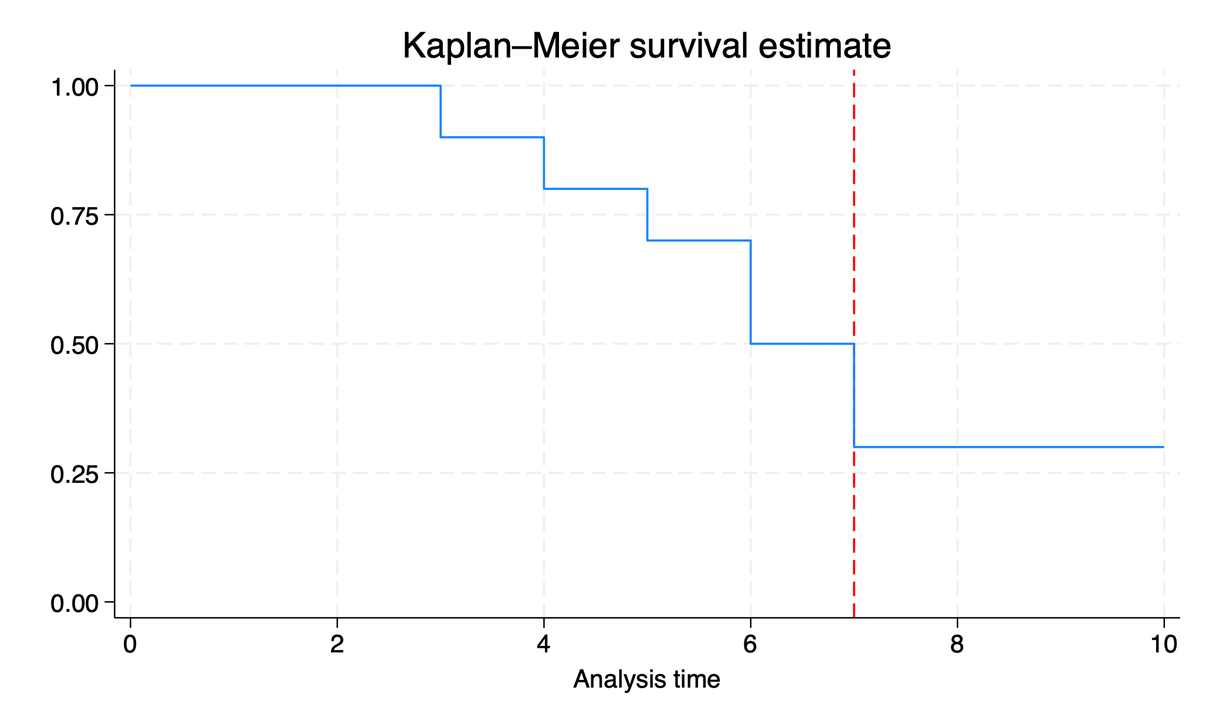
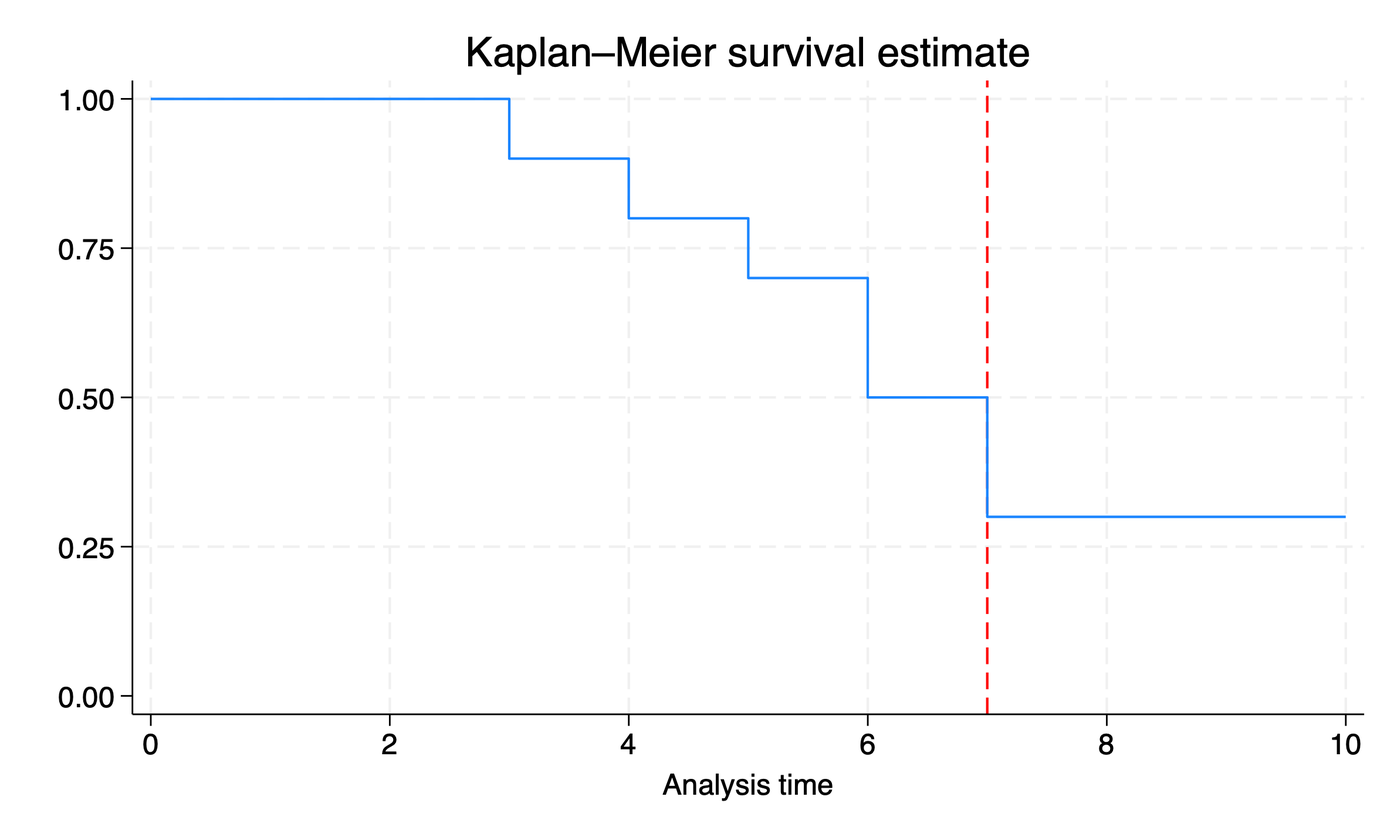
added grey shaded study period; increased width of censoring line

diff --git a/categorical/survival-analysis-and-event-history/times-events-and-censoring.html b/categorical/survival-analysis-and-event-history/times-events-and-censoring.html
@@ -7,7 +7,7 @@
 <meta name="viewport" content="width=device-width, initial-scale=1.0, user-scalable=yes">
 
 <meta name="author" content="Andy Grogan-Kaylor">
-<meta name="dcterms.date" content="2026-05-13">
+<meta name="dcterms.date" content="2026-09-16">
 
 <title>Times, Events, and Censoring</title>
 <style>
@@ -134,7 +134,7 @@ pre > code.sourceCode > span > a:first-child::before { text-decoration: underlin
     <div>
     <div class="quarto-title-meta-heading">Published</div>
     <div class="quarto-title-meta-contents">
-      <p class="date">May 13, 2026</p>
+      <p class="date">September 16, 2026</p>
     </div>
   </div>
   
@@ -238,7 +238,8 @@ pre > code.sourceCode > span > a:first-child::before { text-decoration: underlin
 </div>
 <p>Individuals in the animation below who have not yet experienced an event are indicated by a <span style="font-size: 150%">●</span>.</p>
 <p>When an event occurs for an individual, the symbol changes to a <span style="font-size: 150%">✕</span>.</p>
-<p>In this simulation, we imagine that the study period ends after time 7, so observations for which the event occurs after time 7 are considered to be <em>censored</em>: i.e.&nbsp;a failure is not observed.</p>
+<p>The study period is shaded <span style="background-color:lightgrey;">light grey</span>.</p>
+<p>In this simulation, we imagine that the <span style="background-color:lightgrey;">study period</span> ends after time 7, so observations for which the event occurs after time 7 are considered to be <em>censored</em>: i.e.&nbsp;a failure is not observed.</p>
 <p>Censored observations (<em>failure not observed</em>) are <strong>maize</strong> <span style="color: #FFCB05">⬤</span>, and non-censored observations (<em>failure observed</em>) are <strong>blue</strong> <span style="color: #00274C">⬤</span>.<a href="#fn1" class="footnote-ref" id="fnref1" role="doc-noteref"><sup>1</sup></a></p>
 <div class="cell">
 <details class="code-fold">
@@ -262,21 +263,31 @@ pre > code.sourceCode > span > a:first-child::before { text-decoration: underlin
 <span id="cb5-17"><a href="#cb5-17" aria-hidden="true" tabindex="-1"></a>                          <span class="st">'x'</span>), <span class="co"># event</span></span>
 <span id="cb5-18"><a href="#cb5-18" aria-hidden="true" tabindex="-1"></a>              <span class="at">marker =</span> <span class="fu">list</span>(<span class="at">size =</span> <span class="dv">15</span>)) <span class="sc">%&gt;%</span> <span class="co"># marker size</span></span>
 <span id="cb5-19"><a href="#cb5-19" aria-hidden="true" tabindex="-1"></a>  <span class="fu">layout</span>(<span class="at">title =</span> <span class="st">'Hypothetical Timing of Events </span><span class="sc">\n</span><span class="st">Censored at Time 7'</span>,</span>
-<span id="cb5-20"><a href="#cb5-20" aria-hidden="true" tabindex="-1"></a>         <span class="at">shapes =</span> <span class="fu">list</span>(<span class="at">type=</span><span class="st">'line'</span>, <span class="co"># censoring line</span></span>
-<span id="cb5-21"><a href="#cb5-21" aria-hidden="true" tabindex="-1"></a>                       <span class="at">x0 =</span> <span class="dv">7</span>, </span>
-<span id="cb5-22"><a href="#cb5-22" aria-hidden="true" tabindex="-1"></a>                       <span class="at">x1 =</span> <span class="dv">7</span>, </span>
-<span id="cb5-23"><a href="#cb5-23" aria-hidden="true" tabindex="-1"></a>                       <span class="at">y0 =</span> <span class="dv">0</span>, </span>
-<span id="cb5-24"><a href="#cb5-24" aria-hidden="true" tabindex="-1"></a>                       <span class="at">y1 =</span> <span class="dv">10</span>, </span>
-<span id="cb5-25"><a href="#cb5-25" aria-hidden="true" tabindex="-1"></a>                       <span class="at">line=</span><span class="fu">list</span>(<span class="at">dash=</span><span class="st">'dot'</span>, </span>
-<span id="cb5-26"><a href="#cb5-26" aria-hidden="true" tabindex="-1"></a>                                 <span class="at">width=</span><span class="dv">1</span>, </span>
-<span id="cb5-27"><a href="#cb5-27" aria-hidden="true" tabindex="-1"></a>                                 <span class="at">color =</span> <span class="st">"red"</span>))) <span class="sc">%&gt;%</span></span>
-<span id="cb5-28"><a href="#cb5-28" aria-hidden="true" tabindex="-1"></a>  <span class="fu">animation_opts</span>(<span class="dv">3000</span>) </span>
-<span id="cb5-29"><a href="#cb5-29" aria-hidden="true" tabindex="-1"></a></span>
-<span id="cb5-30"><a href="#cb5-30" aria-hidden="true" tabindex="-1"></a>p2 <span class="co"># replay</span></span></code></pre></div><button title="Copy to Clipboard" class="code-copy-button"><i class="bi"></i></button></div>
+<span id="cb5-20"><a href="#cb5-20" aria-hidden="true" tabindex="-1"></a>         <span class="at">shapes =</span> <span class="fu">list</span>(</span>
+<span id="cb5-21"><a href="#cb5-21" aria-hidden="true" tabindex="-1"></a>           <span class="fu">list</span>(</span>
+<span id="cb5-22"><a href="#cb5-22" aria-hidden="true" tabindex="-1"></a>             <span class="at">type=</span><span class="st">'line'</span>, <span class="co"># censoring line</span></span>
+<span id="cb5-23"><a href="#cb5-23" aria-hidden="true" tabindex="-1"></a>             <span class="at">x0 =</span> <span class="dv">7</span>, </span>
+<span id="cb5-24"><a href="#cb5-24" aria-hidden="true" tabindex="-1"></a>             <span class="at">x1 =</span> <span class="dv">7</span>, </span>
+<span id="cb5-25"><a href="#cb5-25" aria-hidden="true" tabindex="-1"></a>             <span class="at">y0 =</span> <span class="dv">0</span>, </span>
+<span id="cb5-26"><a href="#cb5-26" aria-hidden="true" tabindex="-1"></a>             <span class="at">y1 =</span> <span class="dv">10</span>, </span>
+<span id="cb5-27"><a href="#cb5-27" aria-hidden="true" tabindex="-1"></a>             <span class="at">line =</span> <span class="fu">list</span>(<span class="at">dash =</span> <span class="st">'dot'</span>, </span>
+<span id="cb5-28"><a href="#cb5-28" aria-hidden="true" tabindex="-1"></a>                         <span class="at">width =</span> <span class="dv">3</span>, </span>
+<span id="cb5-29"><a href="#cb5-29" aria-hidden="true" tabindex="-1"></a>                         <span class="at">color =</span> <span class="st">"red"</span>)),</span>
+<span id="cb5-30"><a href="#cb5-30" aria-hidden="true" tabindex="-1"></a>           <span class="fu">list</span>(</span>
+<span id="cb5-31"><a href="#cb5-31" aria-hidden="true" tabindex="-1"></a>             <span class="at">type =</span> <span class="st">"rect"</span>,</span>
+<span id="cb5-32"><a href="#cb5-32" aria-hidden="true" tabindex="-1"></a>             <span class="at">x0 =</span> <span class="dv">1</span>,</span>
+<span id="cb5-33"><a href="#cb5-33" aria-hidden="true" tabindex="-1"></a>             <span class="at">x1 =</span> <span class="dv">7</span>,</span>
+<span id="cb5-34"><a href="#cb5-34" aria-hidden="true" tabindex="-1"></a>             <span class="at">y0 =</span> <span class="dv">1</span>,</span>
+<span id="cb5-35"><a href="#cb5-35" aria-hidden="true" tabindex="-1"></a>             <span class="at">y1 =</span> <span class="dv">10</span>,</span>
+<span id="cb5-36"><a href="#cb5-36" aria-hidden="true" tabindex="-1"></a>             <span class="at">fillcolor =</span> <span class="st">"lightgrey"</span>,</span>
+<span id="cb5-37"><a href="#cb5-37" aria-hidden="true" tabindex="-1"></a>             <span class="at">opacity =</span> .<span class="dv">25</span>))) <span class="sc">%&gt;%</span></span>
+<span id="cb5-38"><a href="#cb5-38" aria-hidden="true" tabindex="-1"></a>  <span class="fu">animation_opts</span>(<span class="dv">3000</span>) </span>
+<span id="cb5-39"><a href="#cb5-39" aria-hidden="true" tabindex="-1"></a></span>
+<span id="cb5-40"><a href="#cb5-40" aria-hidden="true" tabindex="-1"></a>p2 <span class="co"># replay</span></span></code></pre></div><button title="Copy to Clipboard" class="code-copy-button"><i class="bi"></i></button></div>
 </details>
 <div class="cell-output-display">
 <div class="plotly html-widget html-fill-item" id="htmlwidget-7f406c1c9d515fb2f749" style="width:100%;height:464px;"></div>
-<script type="application/json" data-for="htmlwidget-7f406c1c9d515fb2f749">{"x":{"visdat":{"ad3d5bb9a70d":["function () ","plotlyVisDat"]},"cur_data":"ad3d5bb9a70d","attrs":{"ad3d5bb9a70d":{"x":{},"y":{},"text":{},"mode":"marker","marker":{"size":15},"color":{},"symbol":{},"frame":{},"colors":["#00274C","#FFCB05"],"alpha_stroke":1,"sizes":[10,100],"spans":[1,20],"symbols":["circle","x"],"type":"scatter"}},"layout":{"margin":{"b":40,"l":60,"t":25,"r":10},"title":"Hypothetical Timing of Events <br />Censored at Time 7","shapes":[{"type":"line","x0":7,"x1":7,"y0":0,"y1":10,"line":{"dash":"dot","width":1,"color":"red"}}],"xaxis":{"domain":[0,1],"automargin":true,"title":"t","range":[0.55000000000000004,10.449999999999999]},"yaxis":{"domain":[0,1],"automargin":true,"title":"id","range":[0.55000000000000004,10.449999999999999]},"hovermode":"closest","showlegend":true,"sliders":[{"currentvalue":{"prefix":"t: ","xanchor":"right","font":{"size":16,"color":"rgba(204,204,204,1)"}},"steps":[{"method":"animate","args":[["1"],{"transition":{"duration":3000,"easing":"linear"},"frame":{"duration":3000,"redraw":true},"mode":"immediate"}],"label":"1","value":"1"},{"method":"animate","args":[["2"],{"transition":{"duration":3000,"easing":"linear"},"frame":{"duration":3000,"redraw":true},"mode":"immediate"}],"label":"2","value":"2"},{"method":"animate","args":[["3"],{"transition":{"duration":3000,"easing":"linear"},"frame":{"duration":3000,"redraw":true},"mode":"immediate"}],"label":"3","value":"3"},{"method":"animate","args":[["4"],{"transition":{"duration":3000,"easing":"linear"},"frame":{"duration":3000,"redraw":true},"mode":"immediate"}],"label":"4","value":"4"},{"method":"animate","args":[["5"],{"transition":{"duration":3000,"easing":"linear"},"frame":{"duration":3000,"redraw":true},"mode":"immediate"}],"label":"5","value":"5"},{"method":"animate","args":[["6"],{"transition":{"duration":3000,"easing":"linear"},"frame":{"duration":3000,"redraw":true},"mode":"immediate"}],"label":"6","value":"6"},{"method":"animate","args":[["7"],{"transition":{"duration":3000,"easing":"linear"},"frame":{"duration":3000,"redraw":true},"mode":"immediate"}],"label":"7","value":"7"},{"method":"animate","args":[["8"],{"transition":{"duration":3000,"easing":"linear"},"frame":{"duration":3000,"redraw":true},"mode":"immediate"}],"label":"8","value":"8"},{"method":"animate","args":[["9"],{"transition":{"duration":3000,"easing":"linear"},"frame":{"duration":3000,"redraw":true},"mode":"immediate"}],"label":"9","value":"9"},{"method":"animate","args":[["10"],{"transition":{"duration":3000,"easing":"linear"},"frame":{"duration":3000,"redraw":true},"mode":"immediate"}],"label":"10","value":"10"}],"visible":true,"pad":{"t":40}}],"updatemenus":[{"type":"buttons","direction":"right","showactive":false,"y":0,"x":0,"yanchor":"top","xanchor":"right","pad":{"t":60,"r":5},"buttons":[{"label":"Play","method":"animate","args":[null,{"fromcurrent":true,"mode":"immediate","transition":{"duration":3000,"easing":"linear"},"frame":{"duration":3000,"redraw":true}}]}]}]},"source":"A","config":{"modeBarButtonsToAdd":["hoverclosest","hovercompare"],"showSendToCloud":false},"data":[{"x":[1,1,1],"y":[1,5,8],"text":["Event: No Event <br>Censored: Censored","Event: No Event <br>Censored: Censored","Event: No Event <br>Censored: Censored"],"mode":"marker+markers","marker":{"color":"rgba(255,203,5,1)","symbol":"circle","size":15,"line":{"color":"rgba(255,203,5,1)"}},"frame":"1","type":"scatter","name":"Censored","textfont":{"color":"rgba(255,203,5,1)"},"error_y":{"color":"rgba(255,203,5,1)"},"error_x":{"color":"rgba(255,203,5,1)"},"line":{"color":"rgba(255,203,5,1)"},"xaxis":"x","yaxis":"y","visible":true},{"x":[1,1,1,1,1,1,1],"y":[2,3,4,6,7,9,10],"text":["Event: No Event <br>Censored: Not Censored","Event: No Event <br>Censored: Not Censored","Event: No Event <br>Censored: Not Censored","Event: No Event <br>Censored: Not Censored","Event: No Event <br>Censored: Not Censored","Event: No Event <br>Censored: Not Censored","Event: No Event <br>Censored: Not Censored"],"mode":"marker+markers","marker":{"color":"rgba(0,39,76,1)","symbol":"circle","size":15,"line":{"color":"rgba(0,39,76,1)"}},"frame":"1","type":"scatter","name":"Not Censored","textfont":{"color":"rgba(0,39,76,1)"},"error_y":{"color":"rgba(0,39,76,1)"},"error_x":{"color":"rgba(0,39,76,1)"},"line":{"color":"rgba(0,39,76,1)"},"xaxis":"x","yaxis":"y","visible":true}],"highlight":{"on":"plotly_click","persistent":false,"dynamic":false,"selectize":false,"opacityDim":0.20000000000000001,"selected":{"opacity":1},"debounce":0},"frames":[{"name":"1","data":[{"x":[1,1,1],"y":[1,5,8],"text":["Event: No Event <br>Censored: Censored","Event: No Event <br>Censored: Censored","Event: No Event <br>Censored: Censored"],"mode":"marker+markers","marker":{"color":"rgba(255,203,5,1)","symbol":"circle","size":15,"line":{"color":"rgba(255,203,5,1)"}},"frame":"1","type":"scatter","name":"Censored","textfont":{"color":"rgba(255,203,5,1)"},"error_y":{"color":"rgba(255,203,5,1)"},"error_x":{"color":"rgba(255,203,5,1)"},"line":{"color":"rgba(255,203,5,1)"},"xaxis":"x","yaxis":"y","visible":true},{"x":[1,1,1,1,1,1,1],"y":[2,3,4,6,7,9,10],"text":["Event: No Event <br>Censored: Not Censored","Event: No Event <br>Censored: Not Censored","Event: No Event <br>Censored: Not Censored","Event: No Event <br>Censored: Not Censored","Event: No Event <br>Censored: Not Censored","Event: No Event <br>Censored: Not Censored","Event: No Event <br>Censored: Not Censored"],"mode":"marker+markers","marker":{"color":"rgba(0,39,76,1)","symbol":"circle","size":15,"line":{"color":"rgba(0,39,76,1)"}},"frame":"1","type":"scatter","name":"Not Censored","textfont":{"color":"rgba(0,39,76,1)"},"error_y":{"color":"rgba(0,39,76,1)"},"error_x":{"color":"rgba(0,39,76,1)"},"line":{"color":"rgba(0,39,76,1)"},"xaxis":"x","yaxis":"y","visible":true}],"traces":[0,1]},{"name":"2","data":[{"x":[2,2,2],"y":[1,5,8],"text":["Event: No Event <br>Censored: Censored","Event: No Event <br>Censored: Censored","Event: No Event <br>Censored: Censored"],"mode":"marker+markers","marker":{"color":"rgba(255,203,5,1)","symbol":"circle","size":15,"line":{"color":"rgba(255,203,5,1)"}},"frame":"2","type":"scatter","name":"Censored","textfont":{"color":"rgba(255,203,5,1)"},"error_y":{"color":"rgba(255,203,5,1)"},"error_x":{"color":"rgba(255,203,5,1)"},"line":{"color":"rgba(255,203,5,1)"},"xaxis":"x","yaxis":"y","visible":true},{"x":[2,2,2,2,2,2,2],"y":[2,3,4,6,7,9,10],"text":["Event: No Event <br>Censored: Not Censored","Event: No Event <br>Censored: Not Censored","Event: No Event <br>Censored: Not Censored","Event: No Event <br>Censored: Not Censored","Event: No Event <br>Censored: Not Censored","Event: No Event <br>Censored: Not Censored","Event: No Event <br>Censored: Not Censored"],"mode":"marker+markers","marker":{"color":"rgba(0,39,76,1)","symbol":"circle","size":15,"line":{"color":"rgba(0,39,76,1)"}},"frame":"2","type":"scatter","name":"Not Censored","textfont":{"color":"rgba(0,39,76,1)"},"error_y":{"color":"rgba(0,39,76,1)"},"error_x":{"color":"rgba(0,39,76,1)"},"line":{"color":"rgba(0,39,76,1)"},"xaxis":"x","yaxis":"y","visible":true}],"traces":[0,1]},{"name":"3","data":[{"x":[3,3,3],"y":[1,5,8],"text":["Event: No Event <br>Censored: Censored","Event: No Event <br>Censored: Censored","Event: No Event <br>Censored: Censored"],"mode":"marker+markers","marker":{"color":"rgba(255,203,5,1)","symbol":"circle","size":15,"line":{"color":"rgba(255,203,5,1)"}},"frame":"3","type":"scatter","name":"Censored","textfont":{"color":"rgba(255,203,5,1)"},"error_y":{"color":"rgba(255,203,5,1)"},"error_x":{"color":"rgba(255,203,5,1)"},"line":{"color":"rgba(255,203,5,1)"},"xaxis":"x","yaxis":"y","visible":true},{"x":[3,3,3,3,3,3,3],"y":[2,3,4,6,7,9,10],"text":["Event: No Event <br>Censored: Not Censored","Event: Event <br>Censored: Not Censored","Event: No Event <br>Censored: Not Censored","Event: No Event <br>Censored: Not Censored","Event: No Event <br>Censored: Not Censored","Event: No Event <br>Censored: Not Censored","Event: No Event <br>Censored: Not Censored"],"mode":"marker+markers","marker":{"color":"rgba(0,39,76,1)","symbol":["circle","x","circle","circle","circle","circle","circle"],"size":15,"line":{"color":"rgba(0,39,76,1)"}},"frame":"3","type":"scatter","name":"Not Censored","textfont":{"color":"rgba(0,39,76,1)"},"error_y":{"color":"rgba(0,39,76,1)"},"error_x":{"color":"rgba(0,39,76,1)"},"line":{"color":"rgba(0,39,76,1)"},"xaxis":"x","yaxis":"y","visible":true}],"traces":[0,1]},{"name":"4","data":[{"x":[4,4,4],"y":[1,5,8],"text":["Event: No Event <br>Censored: Censored","Event: No Event <br>Censored: Censored","Event: No Event <br>Censored: Censored"],"mode":"marker+markers","marker":{"color":"rgba(255,203,5,1)","symbol":"circle","size":15,"line":{"color":"rgba(255,203,5,1)"}},"frame":"4","type":"scatter","name":"Censored","textfont":{"color":"rgba(255,203,5,1)"},"error_y":{"color":"rgba(255,203,5,1)"},"error_x":{"color":"rgba(255,203,5,1)"},"line":{"color":"rgba(255,203,5,1)"},"xaxis":"x","yaxis":"y","visible":true},{"x":[4,4,4,4,4,4,4],"y":[2,3,4,6,7,9,10],"text":["Event: No Event <br>Censored: Not Censored","Event: Event <br>Censored: Not Censored","Event: No Event <br>Censored: Not Censored","Event: No Event <br>Censored: Not Censored","Event: No Event <br>Censored: Not Censored","Event: Event <br>Censored: Not Censored","Event: No Event <br>Censored: Not Censored"],"mode":"marker+markers","marker":{"color":"rgba(0,39,76,1)","symbol":["circle","x","circle","circle","circle","x","circle"],"size":15,"line":{"color":"rgba(0,39,76,1)"}},"frame":"4","type":"scatter","name":"Not Censored","textfont":{"color":"rgba(0,39,76,1)"},"error_y":{"color":"rgba(0,39,76,1)"},"error_x":{"color":"rgba(0,39,76,1)"},"line":{"color":"rgba(0,39,76,1)"},"xaxis":"x","yaxis":"y","visible":true}],"traces":[0,1]},{"name":"5","data":[{"x":[5,5,5],"y":[1,5,8],"text":["Event: No Event <br>Censored: Censored","Event: No Event <br>Censored: Censored","Event: No Event <br>Censored: Censored"],"mode":"marker+markers","marker":{"color":"rgba(255,203,5,1)","symbol":"circle","size":15,"line":{"color":"rgba(255,203,5,1)"}},"frame":"5","type":"scatter","name":"Censored","textfont":{"color":"rgba(255,203,5,1)"},"error_y":{"color":"rgba(255,203,5,1)"},"error_x":{"color":"rgba(255,203,5,1)"},"line":{"color":"rgba(255,203,5,1)"},"xaxis":"x","yaxis":"y","visible":true},{"x":[5,5,5,5,5,5,5],"y":[2,3,4,6,7,9,10],"text":["Event: No Event <br>Censored: Not Censored","Event: Event <br>Censored: Not Censored","Event: Event <br>Censored: Not Censored","Event: No Event <br>Censored: Not Censored","Event: No Event <br>Censored: Not Censored","Event: Event <br>Censored: Not Censored","Event: No Event <br>Censored: Not Censored"],"mode":"marker+markers","marker":{"color":"rgba(0,39,76,1)","symbol":["circle","x","x","circle","circle","x","circle"],"size":15,"line":{"color":"rgba(0,39,76,1)"}},"frame":"5","type":"scatter","name":"Not Censored","textfont":{"color":"rgba(0,39,76,1)"},"error_y":{"color":"rgba(0,39,76,1)"},"error_x":{"color":"rgba(0,39,76,1)"},"line":{"color":"rgba(0,39,76,1)"},"xaxis":"x","yaxis":"y","visible":true}],"traces":[0,1]},{"name":"6","data":[{"x":[6,6,6],"y":[1,5,8],"text":["Event: No Event <br>Censored: Censored","Event: No Event <br>Censored: Censored","Event: No Event <br>Censored: Censored"],"mode":"marker+markers","marker":{"color":"rgba(255,203,5,1)","symbol":"circle","size":15,"line":{"color":"rgba(255,203,5,1)"}},"frame":"6","type":"scatter","name":"Censored","textfont":{"color":"rgba(255,203,5,1)"},"error_y":{"color":"rgba(255,203,5,1)"},"error_x":{"color":"rgba(255,203,5,1)"},"line":{"color":"rgba(255,203,5,1)"},"xaxis":"x","yaxis":"y","visible":true},{"x":[6,6,6,6,6,6,6],"y":[2,3,4,6,7,9,10],"text":["Event: Event <br>Censored: Not Censored","Event: Event <br>Censored: Not Censored","Event: Event <br>Censored: Not Censored","Event: Event <br>Censored: Not Censored","Event: No Event <br>Censored: Not Censored","Event: Event <br>Censored: Not Censored","Event: No Event <br>Censored: Not Censored"],"mode":"marker+markers","marker":{"color":"rgba(0,39,76,1)","symbol":["x","x","x","x","circle","x","circle"],"size":15,"line":{"color":"rgba(0,39,76,1)"}},"frame":"6","type":"scatter","name":"Not Censored","textfont":{"color":"rgba(0,39,76,1)"},"error_y":{"color":"rgba(0,39,76,1)"},"error_x":{"color":"rgba(0,39,76,1)"},"line":{"color":"rgba(0,39,76,1)"},"xaxis":"x","yaxis":"y","visible":true}],"traces":[0,1]},{"name":"7","data":[{"x":[7,7,7],"y":[1,5,8],"text":["Event: No Event <br>Censored: Censored","Event: No Event <br>Censored: Censored","Event: No Event <br>Censored: Censored"],"mode":"marker+markers","marker":{"color":"rgba(255,203,5,1)","symbol":"circle","size":15,"line":{"color":"rgba(255,203,5,1)"}},"frame":"7","type":"scatter","name":"Censored","textfont":{"color":"rgba(255,203,5,1)"},"error_y":{"color":"rgba(255,203,5,1)"},"error_x":{"color":"rgba(255,203,5,1)"},"line":{"color":"rgba(255,203,5,1)"},"xaxis":"x","yaxis":"y","visible":true},{"x":[7,7,7,7,7,7,7],"y":[2,3,4,6,7,9,10],"text":["Event: Event <br>Censored: Not Censored","Event: Event <br>Censored: Not Censored","Event: Event <br>Censored: Not Censored","Event: Event <br>Censored: Not Censored","Event: Event <br>Censored: Not Censored","Event: Event <br>Censored: Not Censored","Event: Event <br>Censored: Not Censored"],"mode":"marker+markers","marker":{"color":"rgba(0,39,76,1)","symbol":"x","size":15,"line":{"color":"rgba(0,39,76,1)"}},"frame":"7","type":"scatter","name":"Not Censored","textfont":{"color":"rgba(0,39,76,1)"},"error_y":{"color":"rgba(0,39,76,1)"},"error_x":{"color":"rgba(0,39,76,1)"},"line":{"color":"rgba(0,39,76,1)"},"xaxis":"x","yaxis":"y","visible":true}],"traces":[0,1]},{"name":"8","data":[{"x":[8,8,8],"y":[1,5,8],"text":["Event: Event <br>Censored: Censored","Event: No Event <br>Censored: Censored","Event: No Event <br>Censored: Censored"],"mode":"marker+markers","marker":{"color":"rgba(255,203,5,1)","symbol":["x","circle","circle"],"size":15,"line":{"color":"rgba(255,203,5,1)"}},"frame":"8","type":"scatter","name":"Censored","textfont":{"color":"rgba(255,203,5,1)"},"error_y":{"color":"rgba(255,203,5,1)"},"error_x":{"color":"rgba(255,203,5,1)"},"line":{"color":"rgba(255,203,5,1)"},"xaxis":"x","yaxis":"y","visible":true},{"x":[8,8,8,8,8,8,8],"y":[2,3,4,6,7,9,10],"text":["Event: Event <br>Censored: Not Censored","Event: Event <br>Censored: Not Censored","Event: Event <br>Censored: Not Censored","Event: Event <br>Censored: Not Censored","Event: Event <br>Censored: Not Censored","Event: Event <br>Censored: Not Censored","Event: Event <br>Censored: Not Censored"],"mode":"marker+markers","marker":{"color":"rgba(0,39,76,1)","symbol":"x","size":15,"line":{"color":"rgba(0,39,76,1)"}},"frame":"8","type":"scatter","name":"Not Censored","textfont":{"color":"rgba(0,39,76,1)"},"error_y":{"color":"rgba(0,39,76,1)"},"error_x":{"color":"rgba(0,39,76,1)"},"line":{"color":"rgba(0,39,76,1)"},"xaxis":"x","yaxis":"y","visible":true}],"traces":[0,1]},{"name":"9","data":[{"x":[9,9,9],"y":[1,5,8],"text":["Event: Event <br>Censored: Censored","Event: Event <br>Censored: Censored","Event: No Event <br>Censored: Censored"],"mode":"marker+markers","marker":{"color":"rgba(255,203,5,1)","symbol":["x","x","circle"],"size":15,"line":{"color":"rgba(255,203,5,1)"}},"frame":"9","type":"scatter","name":"Censored","textfont":{"color":"rgba(255,203,5,1)"},"error_y":{"color":"rgba(255,203,5,1)"},"error_x":{"color":"rgba(255,203,5,1)"},"line":{"color":"rgba(255,203,5,1)"},"xaxis":"x","yaxis":"y","visible":true},{"x":[9,9,9,9,9,9,9],"y":[2,3,4,6,7,9,10],"text":["Event: Event <br>Censored: Not Censored","Event: Event <br>Censored: Not Censored","Event: Event <br>Censored: Not Censored","Event: Event <br>Censored: Not Censored","Event: Event <br>Censored: Not Censored","Event: Event <br>Censored: Not Censored","Event: Event <br>Censored: Not Censored"],"mode":"marker+markers","marker":{"color":"rgba(0,39,76,1)","symbol":"x","size":15,"line":{"color":"rgba(0,39,76,1)"}},"frame":"9","type":"scatter","name":"Not Censored","textfont":{"color":"rgba(0,39,76,1)"},"error_y":{"color":"rgba(0,39,76,1)"},"error_x":{"color":"rgba(0,39,76,1)"},"line":{"color":"rgba(0,39,76,1)"},"xaxis":"x","yaxis":"y","visible":true}],"traces":[0,1]},{"name":"10","data":[{"x":[10,10,10],"y":[1,5,8],"text":["Event: Event <br>Censored: Censored","Event: Event <br>Censored: Censored","Event: Event <br>Censored: Censored"],"mode":"marker+markers","marker":{"color":"rgba(255,203,5,1)","symbol":"x","size":15,"line":{"color":"rgba(255,203,5,1)"}},"frame":"10","type":"scatter","name":"Censored","textfont":{"color":"rgba(255,203,5,1)"},"error_y":{"color":"rgba(255,203,5,1)"},"error_x":{"color":"rgba(255,203,5,1)"},"line":{"color":"rgba(255,203,5,1)"},"xaxis":"x","yaxis":"y","visible":true},{"x":[10,10,10,10,10,10,10],"y":[2,3,4,6,7,9,10],"text":["Event: Event <br>Censored: Not Censored","Event: Event <br>Censored: Not Censored","Event: Event <br>Censored: Not Censored","Event: Event <br>Censored: Not Censored","Event: Event <br>Censored: Not Censored","Event: Event <br>Censored: Not Censored","Event: Event <br>Censored: Not Censored"],"mode":"marker+markers","marker":{"color":"rgba(0,39,76,1)","symbol":"x","size":15,"line":{"color":"rgba(0,39,76,1)"}},"frame":"10","type":"scatter","name":"Not Censored","textfont":{"color":"rgba(0,39,76,1)"},"error_y":{"color":"rgba(0,39,76,1)"},"error_x":{"color":"rgba(0,39,76,1)"},"line":{"color":"rgba(0,39,76,1)"},"xaxis":"x","yaxis":"y","visible":true}],"traces":[0,1]}],"shinyEvents":["plotly_hover","plotly_click","plotly_selected","plotly_relayout","plotly_brushed","plotly_brushing","plotly_clickannotation","plotly_doubleclick","plotly_deselect","plotly_afterplot","plotly_sunburstclick"],"base_url":"https://plot.ly"},"evals":[],"jsHooks":[]}</script>
+<script type="application/json" data-for="htmlwidget-7f406c1c9d515fb2f749">{"x":{"visdat":{"1e04c81c1f6":["function () ","plotlyVisDat"]},"cur_data":"1e04c81c1f6","attrs":{"1e04c81c1f6":{"x":{},"y":{},"text":{},"mode":"marker","marker":{"size":15},"color":{},"symbol":{},"frame":{},"colors":["#00274C","#FFCB05"],"alpha_stroke":1,"sizes":[10,100],"spans":[1,20],"symbols":["circle","x"],"type":"scatter"}},"layout":{"margin":{"b":40,"l":60,"t":25,"r":10},"title":"Hypothetical Timing of Events <br />Censored at Time 7","shapes":[{"type":"line","x0":7,"x1":7,"y0":0,"y1":10,"line":{"dash":"dot","width":3,"color":"red"}},{"type":"rect","x0":1,"x1":7,"y0":1,"y1":10,"fillcolor":"lightgrey","opacity":0.25}],"xaxis":{"domain":[0,1],"automargin":true,"title":"t","range":[0.55000000000000004,10.449999999999999]},"yaxis":{"domain":[0,1],"automargin":true,"title":"id","range":[0.55000000000000004,10.449999999999999]},"hovermode":"closest","showlegend":true,"sliders":[{"currentvalue":{"prefix":"t: ","xanchor":"right","font":{"size":16,"color":"rgba(204,204,204,1)"}},"steps":[{"method":"animate","args":[["1"],{"transition":{"duration":3000,"easing":"linear"},"frame":{"duration":3000,"redraw":true},"mode":"immediate"}],"label":"1","value":"1"},{"method":"animate","args":[["2"],{"transition":{"duration":3000,"easing":"linear"},"frame":{"duration":3000,"redraw":true},"mode":"immediate"}],"label":"2","value":"2"},{"method":"animate","args":[["3"],{"transition":{"duration":3000,"easing":"linear"},"frame":{"duration":3000,"redraw":true},"mode":"immediate"}],"label":"3","value":"3"},{"method":"animate","args":[["4"],{"transition":{"duration":3000,"easing":"linear"},"frame":{"duration":3000,"redraw":true},"mode":"immediate"}],"label":"4","value":"4"},{"method":"animate","args":[["5"],{"transition":{"duration":3000,"easing":"linear"},"frame":{"duration":3000,"redraw":true},"mode":"immediate"}],"label":"5","value":"5"},{"method":"animate","args":[["6"],{"transition":{"duration":3000,"easing":"linear"},"frame":{"duration":3000,"redraw":true},"mode":"immediate"}],"label":"6","value":"6"},{"method":"animate","args":[["7"],{"transition":{"duration":3000,"easing":"linear"},"frame":{"duration":3000,"redraw":true},"mode":"immediate"}],"label":"7","value":"7"},{"method":"animate","args":[["8"],{"transition":{"duration":3000,"easing":"linear"},"frame":{"duration":3000,"redraw":true},"mode":"immediate"}],"label":"8","value":"8"},{"method":"animate","args":[["9"],{"transition":{"duration":3000,"easing":"linear"},"frame":{"duration":3000,"redraw":true},"mode":"immediate"}],"label":"9","value":"9"},{"method":"animate","args":[["10"],{"transition":{"duration":3000,"easing":"linear"},"frame":{"duration":3000,"redraw":true},"mode":"immediate"}],"label":"10","value":"10"}],"visible":true,"pad":{"t":40}}],"updatemenus":[{"type":"buttons","direction":"right","showactive":false,"y":0,"x":0,"yanchor":"top","xanchor":"right","pad":{"t":60,"r":5},"buttons":[{"label":"Play","method":"animate","args":[null,{"fromcurrent":true,"mode":"immediate","transition":{"duration":3000,"easing":"linear"},"frame":{"duration":3000,"redraw":true}}]}]}]},"source":"A","config":{"modeBarButtonsToAdd":["hoverclosest","hovercompare"],"showSendToCloud":false},"data":[{"x":[1,1,1],"y":[1,5,8],"text":["Event: No Event <br>Censored: Censored","Event: No Event <br>Censored: Censored","Event: No Event <br>Censored: Censored"],"mode":"marker+markers","marker":{"color":"rgba(255,203,5,1)","symbol":"circle","size":15,"line":{"color":"rgba(255,203,5,1)"}},"frame":"1","type":"scatter","name":"Censored","textfont":{"color":"rgba(255,203,5,1)"},"error_y":{"color":"rgba(255,203,5,1)"},"error_x":{"color":"rgba(255,203,5,1)"},"line":{"color":"rgba(255,203,5,1)"},"xaxis":"x","yaxis":"y","visible":true},{"x":[1,1,1,1,1,1,1],"y":[2,3,4,6,7,9,10],"text":["Event: No Event <br>Censored: Not Censored","Event: No Event <br>Censored: Not Censored","Event: No Event <br>Censored: Not Censored","Event: No Event <br>Censored: Not Censored","Event: No Event <br>Censored: Not Censored","Event: No Event <br>Censored: Not Censored","Event: No Event <br>Censored: Not Censored"],"mode":"marker+markers","marker":{"color":"rgba(0,39,76,1)","symbol":"circle","size":15,"line":{"color":"rgba(0,39,76,1)"}},"frame":"1","type":"scatter","name":"Not Censored","textfont":{"color":"rgba(0,39,76,1)"},"error_y":{"color":"rgba(0,39,76,1)"},"error_x":{"color":"rgba(0,39,76,1)"},"line":{"color":"rgba(0,39,76,1)"},"xaxis":"x","yaxis":"y","visible":true}],"highlight":{"on":"plotly_click","persistent":false,"dynamic":false,"selectize":false,"opacityDim":0.20000000000000001,"selected":{"opacity":1},"debounce":0},"frames":[{"name":"1","data":[{"x":[1,1,1],"y":[1,5,8],"text":["Event: No Event <br>Censored: Censored","Event: No Event <br>Censored: Censored","Event: No Event <br>Censored: Censored"],"mode":"marker+markers","marker":{"color":"rgba(255,203,5,1)","symbol":"circle","size":15,"line":{"color":"rgba(255,203,5,1)"}},"frame":"1","type":"scatter","name":"Censored","textfont":{"color":"rgba(255,203,5,1)"},"error_y":{"color":"rgba(255,203,5,1)"},"error_x":{"color":"rgba(255,203,5,1)"},"line":{"color":"rgba(255,203,5,1)"},"xaxis":"x","yaxis":"y","visible":true},{"x":[1,1,1,1,1,1,1],"y":[2,3,4,6,7,9,10],"text":["Event: No Event <br>Censored: Not Censored","Event: No Event <br>Censored: Not Censored","Event: No Event <br>Censored: Not Censored","Event: No Event <br>Censored: Not Censored","Event: No Event <br>Censored: Not Censored","Event: No Event <br>Censored: Not Censored","Event: No Event <br>Censored: Not Censored"],"mode":"marker+markers","marker":{"color":"rgba(0,39,76,1)","symbol":"circle","size":15,"line":{"color":"rgba(0,39,76,1)"}},"frame":"1","type":"scatter","name":"Not Censored","textfont":{"color":"rgba(0,39,76,1)"},"error_y":{"color":"rgba(0,39,76,1)"},"error_x":{"color":"rgba(0,39,76,1)"},"line":{"color":"rgba(0,39,76,1)"},"xaxis":"x","yaxis":"y","visible":true}],"traces":[0,1]},{"name":"2","data":[{"x":[2,2,2],"y":[1,5,8],"text":["Event: No Event <br>Censored: Censored","Event: No Event <br>Censored: Censored","Event: No Event <br>Censored: Censored"],"mode":"marker+markers","marker":{"color":"rgba(255,203,5,1)","symbol":"circle","size":15,"line":{"color":"rgba(255,203,5,1)"}},"frame":"2","type":"scatter","name":"Censored","textfont":{"color":"rgba(255,203,5,1)"},"error_y":{"color":"rgba(255,203,5,1)"},"error_x":{"color":"rgba(255,203,5,1)"},"line":{"color":"rgba(255,203,5,1)"},"xaxis":"x","yaxis":"y","visible":true},{"x":[2,2,2,2,2,2,2],"y":[2,3,4,6,7,9,10],"text":["Event: No Event <br>Censored: Not Censored","Event: No Event <br>Censored: Not Censored","Event: No Event <br>Censored: Not Censored","Event: No Event <br>Censored: Not Censored","Event: No Event <br>Censored: Not Censored","Event: No Event <br>Censored: Not Censored","Event: No Event <br>Censored: Not Censored"],"mode":"marker+markers","marker":{"color":"rgba(0,39,76,1)","symbol":"circle","size":15,"line":{"color":"rgba(0,39,76,1)"}},"frame":"2","type":"scatter","name":"Not Censored","textfont":{"color":"rgba(0,39,76,1)"},"error_y":{"color":"rgba(0,39,76,1)"},"error_x":{"color":"rgba(0,39,76,1)"},"line":{"color":"rgba(0,39,76,1)"},"xaxis":"x","yaxis":"y","visible":true}],"traces":[0,1]},{"name":"3","data":[{"x":[3,3,3],"y":[1,5,8],"text":["Event: No Event <br>Censored: Censored","Event: No Event <br>Censored: Censored","Event: No Event <br>Censored: Censored"],"mode":"marker+markers","marker":{"color":"rgba(255,203,5,1)","symbol":"circle","size":15,"line":{"color":"rgba(255,203,5,1)"}},"frame":"3","type":"scatter","name":"Censored","textfont":{"color":"rgba(255,203,5,1)"},"error_y":{"color":"rgba(255,203,5,1)"},"error_x":{"color":"rgba(255,203,5,1)"},"line":{"color":"rgba(255,203,5,1)"},"xaxis":"x","yaxis":"y","visible":true},{"x":[3,3,3,3,3,3,3],"y":[2,3,4,6,7,9,10],"text":["Event: No Event <br>Censored: Not Censored","Event: Event <br>Censored: Not Censored","Event: No Event <br>Censored: Not Censored","Event: No Event <br>Censored: Not Censored","Event: No Event <br>Censored: Not Censored","Event: No Event <br>Censored: Not Censored","Event: No Event <br>Censored: Not Censored"],"mode":"marker+markers","marker":{"color":"rgba(0,39,76,1)","symbol":["circle","x","circle","circle","circle","circle","circle"],"size":15,"line":{"color":"rgba(0,39,76,1)"}},"frame":"3","type":"scatter","name":"Not Censored","textfont":{"color":"rgba(0,39,76,1)"},"error_y":{"color":"rgba(0,39,76,1)"},"error_x":{"color":"rgba(0,39,76,1)"},"line":{"color":"rgba(0,39,76,1)"},"xaxis":"x","yaxis":"y","visible":true}],"traces":[0,1]},{"name":"4","data":[{"x":[4,4,4],"y":[1,5,8],"text":["Event: No Event <br>Censored: Censored","Event: No Event <br>Censored: Censored","Event: No Event <br>Censored: Censored"],"mode":"marker+markers","marker":{"color":"rgba(255,203,5,1)","symbol":"circle","size":15,"line":{"color":"rgba(255,203,5,1)"}},"frame":"4","type":"scatter","name":"Censored","textfont":{"color":"rgba(255,203,5,1)"},"error_y":{"color":"rgba(255,203,5,1)"},"error_x":{"color":"rgba(255,203,5,1)"},"line":{"color":"rgba(255,203,5,1)"},"xaxis":"x","yaxis":"y","visible":true},{"x":[4,4,4,4,4,4,4],"y":[2,3,4,6,7,9,10],"text":["Event: No Event <br>Censored: Not Censored","Event: Event <br>Censored: Not Censored","Event: No Event <br>Censored: Not Censored","Event: No Event <br>Censored: Not Censored","Event: No Event <br>Censored: Not Censored","Event: Event <br>Censored: Not Censored","Event: No Event <br>Censored: Not Censored"],"mode":"marker+markers","marker":{"color":"rgba(0,39,76,1)","symbol":["circle","x","circle","circle","circle","x","circle"],"size":15,"line":{"color":"rgba(0,39,76,1)"}},"frame":"4","type":"scatter","name":"Not Censored","textfont":{"color":"rgba(0,39,76,1)"},"error_y":{"color":"rgba(0,39,76,1)"},"error_x":{"color":"rgba(0,39,76,1)"},"line":{"color":"rgba(0,39,76,1)"},"xaxis":"x","yaxis":"y","visible":true}],"traces":[0,1]},{"name":"5","data":[{"x":[5,5,5],"y":[1,5,8],"text":["Event: No Event <br>Censored: Censored","Event: No Event <br>Censored: Censored","Event: No Event <br>Censored: Censored"],"mode":"marker+markers","marker":{"color":"rgba(255,203,5,1)","symbol":"circle","size":15,"line":{"color":"rgba(255,203,5,1)"}},"frame":"5","type":"scatter","name":"Censored","textfont":{"color":"rgba(255,203,5,1)"},"error_y":{"color":"rgba(255,203,5,1)"},"error_x":{"color":"rgba(255,203,5,1)"},"line":{"color":"rgba(255,203,5,1)"},"xaxis":"x","yaxis":"y","visible":true},{"x":[5,5,5,5,5,5,5],"y":[2,3,4,6,7,9,10],"text":["Event: No Event <br>Censored: Not Censored","Event: Event <br>Censored: Not Censored","Event: Event <br>Censored: Not Censored","Event: No Event <br>Censored: Not Censored","Event: No Event <br>Censored: Not Censored","Event: Event <br>Censored: Not Censored","Event: No Event <br>Censored: Not Censored"],"mode":"marker+markers","marker":{"color":"rgba(0,39,76,1)","symbol":["circle","x","x","circle","circle","x","circle"],"size":15,"line":{"color":"rgba(0,39,76,1)"}},"frame":"5","type":"scatter","name":"Not Censored","textfont":{"color":"rgba(0,39,76,1)"},"error_y":{"color":"rgba(0,39,76,1)"},"error_x":{"color":"rgba(0,39,76,1)"},"line":{"color":"rgba(0,39,76,1)"},"xaxis":"x","yaxis":"y","visible":true}],"traces":[0,1]},{"name":"6","data":[{"x":[6,6,6],"y":[1,5,8],"text":["Event: No Event <br>Censored: Censored","Event: No Event <br>Censored: Censored","Event: No Event <br>Censored: Censored"],"mode":"marker+markers","marker":{"color":"rgba(255,203,5,1)","symbol":"circle","size":15,"line":{"color":"rgba(255,203,5,1)"}},"frame":"6","type":"scatter","name":"Censored","textfont":{"color":"rgba(255,203,5,1)"},"error_y":{"color":"rgba(255,203,5,1)"},"error_x":{"color":"rgba(255,203,5,1)"},"line":{"color":"rgba(255,203,5,1)"},"xaxis":"x","yaxis":"y","visible":true},{"x":[6,6,6,6,6,6,6],"y":[2,3,4,6,7,9,10],"text":["Event: Event <br>Censored: Not Censored","Event: Event <br>Censored: Not Censored","Event: Event <br>Censored: Not Censored","Event: Event <br>Censored: Not Censored","Event: No Event <br>Censored: Not Censored","Event: Event <br>Censored: Not Censored","Event: No Event <br>Censored: Not Censored"],"mode":"marker+markers","marker":{"color":"rgba(0,39,76,1)","symbol":["x","x","x","x","circle","x","circle"],"size":15,"line":{"color":"rgba(0,39,76,1)"}},"frame":"6","type":"scatter","name":"Not Censored","textfont":{"color":"rgba(0,39,76,1)"},"error_y":{"color":"rgba(0,39,76,1)"},"error_x":{"color":"rgba(0,39,76,1)"},"line":{"color":"rgba(0,39,76,1)"},"xaxis":"x","yaxis":"y","visible":true}],"traces":[0,1]},{"name":"7","data":[{"x":[7,7,7],"y":[1,5,8],"text":["Event: No Event <br>Censored: Censored","Event: No Event <br>Censored: Censored","Event: No Event <br>Censored: Censored"],"mode":"marker+markers","marker":{"color":"rgba(255,203,5,1)","symbol":"circle","size":15,"line":{"color":"rgba(255,203,5,1)"}},"frame":"7","type":"scatter","name":"Censored","textfont":{"color":"rgba(255,203,5,1)"},"error_y":{"color":"rgba(255,203,5,1)"},"error_x":{"color":"rgba(255,203,5,1)"},"line":{"color":"rgba(255,203,5,1)"},"xaxis":"x","yaxis":"y","visible":true},{"x":[7,7,7,7,7,7,7],"y":[2,3,4,6,7,9,10],"text":["Event: Event <br>Censored: Not Censored","Event: Event <br>Censored: Not Censored","Event: Event <br>Censored: Not Censored","Event: Event <br>Censored: Not Censored","Event: Event <br>Censored: Not Censored","Event: Event <br>Censored: Not Censored","Event: Event <br>Censored: Not Censored"],"mode":"marker+markers","marker":{"color":"rgba(0,39,76,1)","symbol":"x","size":15,"line":{"color":"rgba(0,39,76,1)"}},"frame":"7","type":"scatter","name":"Not Censored","textfont":{"color":"rgba(0,39,76,1)"},"error_y":{"color":"rgba(0,39,76,1)"},"error_x":{"color":"rgba(0,39,76,1)"},"line":{"color":"rgba(0,39,76,1)"},"xaxis":"x","yaxis":"y","visible":true}],"traces":[0,1]},{"name":"8","data":[{"x":[8,8,8],"y":[1,5,8],"text":["Event: Event <br>Censored: Censored","Event: No Event <br>Censored: Censored","Event: No Event <br>Censored: Censored"],"mode":"marker+markers","marker":{"color":"rgba(255,203,5,1)","symbol":["x","circle","circle"],"size":15,"line":{"color":"rgba(255,203,5,1)"}},"frame":"8","type":"scatter","name":"Censored","textfont":{"color":"rgba(255,203,5,1)"},"error_y":{"color":"rgba(255,203,5,1)"},"error_x":{"color":"rgba(255,203,5,1)"},"line":{"color":"rgba(255,203,5,1)"},"xaxis":"x","yaxis":"y","visible":true},{"x":[8,8,8,8,8,8,8],"y":[2,3,4,6,7,9,10],"text":["Event: Event <br>Censored: Not Censored","Event: Event <br>Censored: Not Censored","Event: Event <br>Censored: Not Censored","Event: Event <br>Censored: Not Censored","Event: Event <br>Censored: Not Censored","Event: Event <br>Censored: Not Censored","Event: Event <br>Censored: Not Censored"],"mode":"marker+markers","marker":{"color":"rgba(0,39,76,1)","symbol":"x","size":15,"line":{"color":"rgba(0,39,76,1)"}},"frame":"8","type":"scatter","name":"Not Censored","textfont":{"color":"rgba(0,39,76,1)"},"error_y":{"color":"rgba(0,39,76,1)"},"error_x":{"color":"rgba(0,39,76,1)"},"line":{"color":"rgba(0,39,76,1)"},"xaxis":"x","yaxis":"y","visible":true}],"traces":[0,1]},{"name":"9","data":[{"x":[9,9,9],"y":[1,5,8],"text":["Event: Event <br>Censored: Censored","Event: Event <br>Censored: Censored","Event: No Event <br>Censored: Censored"],"mode":"marker+markers","marker":{"color":"rgba(255,203,5,1)","symbol":["x","x","circle"],"size":15,"line":{"color":"rgba(255,203,5,1)"}},"frame":"9","type":"scatter","name":"Censored","textfont":{"color":"rgba(255,203,5,1)"},"error_y":{"color":"rgba(255,203,5,1)"},"error_x":{"color":"rgba(255,203,5,1)"},"line":{"color":"rgba(255,203,5,1)"},"xaxis":"x","yaxis":"y","visible":true},{"x":[9,9,9,9,9,9,9],"y":[2,3,4,6,7,9,10],"text":["Event: Event <br>Censored: Not Censored","Event: Event <br>Censored: Not Censored","Event: Event <br>Censored: Not Censored","Event: Event <br>Censored: Not Censored","Event: Event <br>Censored: Not Censored","Event: Event <br>Censored: Not Censored","Event: Event <br>Censored: Not Censored"],"mode":"marker+markers","marker":{"color":"rgba(0,39,76,1)","symbol":"x","size":15,"line":{"color":"rgba(0,39,76,1)"}},"frame":"9","type":"scatter","name":"Not Censored","textfont":{"color":"rgba(0,39,76,1)"},"error_y":{"color":"rgba(0,39,76,1)"},"error_x":{"color":"rgba(0,39,76,1)"},"line":{"color":"rgba(0,39,76,1)"},"xaxis":"x","yaxis":"y","visible":true}],"traces":[0,1]},{"name":"10","data":[{"x":[10,10,10],"y":[1,5,8],"text":["Event: Event <br>Censored: Censored","Event: Event <br>Censored: Censored","Event: Event <br>Censored: Censored"],"mode":"marker+markers","marker":{"color":"rgba(255,203,5,1)","symbol":"x","size":15,"line":{"color":"rgba(255,203,5,1)"}},"frame":"10","type":"scatter","name":"Censored","textfont":{"color":"rgba(255,203,5,1)"},"error_y":{"color":"rgba(255,203,5,1)"},"error_x":{"color":"rgba(255,203,5,1)"},"line":{"color":"rgba(255,203,5,1)"},"xaxis":"x","yaxis":"y","visible":true},{"x":[10,10,10,10,10,10,10],"y":[2,3,4,6,7,9,10],"text":["Event: Event <br>Censored: Not Censored","Event: Event <br>Censored: Not Censored","Event: Event <br>Censored: Not Censored","Event: Event <br>Censored: Not Censored","Event: Event <br>Censored: Not Censored","Event: Event <br>Censored: Not Censored","Event: Event <br>Censored: Not Censored"],"mode":"marker+markers","marker":{"color":"rgba(0,39,76,1)","symbol":"x","size":15,"line":{"color":"rgba(0,39,76,1)"}},"frame":"10","type":"scatter","name":"Not Censored","textfont":{"color":"rgba(0,39,76,1)"},"error_y":{"color":"rgba(0,39,76,1)"},"error_x":{"color":"rgba(0,39,76,1)"},"line":{"color":"rgba(0,39,76,1)"},"xaxis":"x","yaxis":"y","visible":true}],"traces":[0,1]}],"shinyEvents":["plotly_hover","plotly_click","plotly_selected","plotly_relayout","plotly_brushed","plotly_brushing","plotly_clickannotation","plotly_doubleclick","plotly_deselect","plotly_afterplot","plotly_sunburstclick"],"base_url":"https://plot.ly"},"evals":[],"jsHooks":[]}</script>
 </div>
 </div>
 </section>
@@ -320,8 +331,8 @@ Observed time interval: (0, event_time]
   Analysis time _t: event_time
 
 file
-    /Users/agrogan/Desktop/GitHub/newstuff/categorical/survival-analysis
-    &gt; -and-event-history/survival.png saved as PNG format</code></pre>
+    /Users/agrogan/Desktop/GitHub/newstuff/categorical/survival-analysis-and-event-histo
+    &gt; ry/survival.png saved as PNG format</code></pre>
 </div>
 </div>
 <div id="fig-survival" class="quarto-float quarto-figure quarto-figure-center anchored">
@@ -404,8 +415,8 @@ Observed time interval: (0, event_time]
 <span id="cb12-3"><a href="#cb12-3" aria-hidden="true" tabindex="-1"></a><span class="kw">codebook</span> event</span></code></pre></div><button title="Copy to Clipboard" class="code-copy-button"><i class="bi"></i></button></div>
 </details>
 <div class="cell-output cell-output-stdout">
-<pre><code>event                                                          (unlabeled)
---------------------------------------------------------------------------
+<pre><code>event                                                                          (unlabeled)
+------------------------------------------------------------------------------------------
 
                   Type: Numeric (long)
                  Label: event
